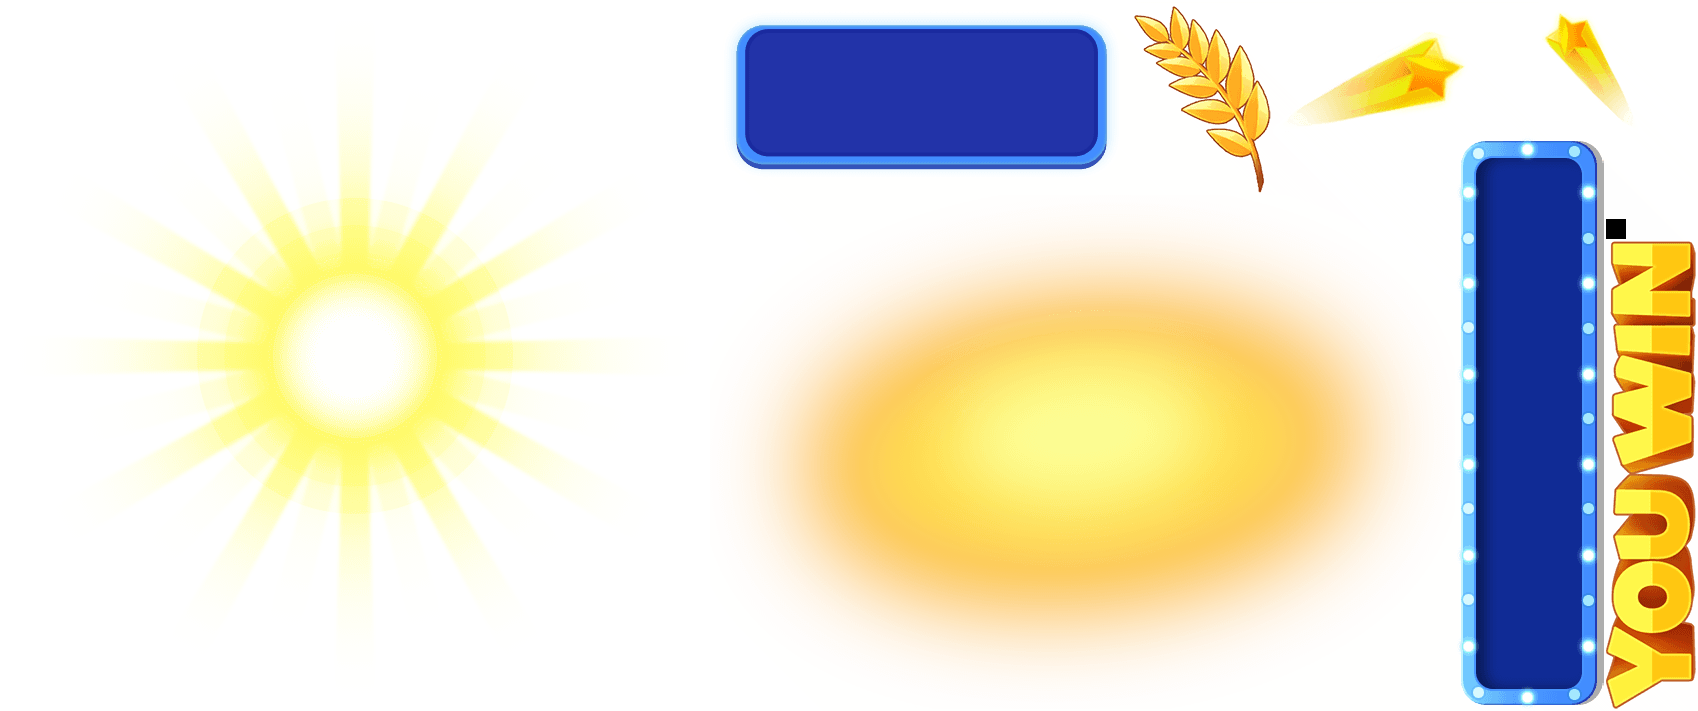
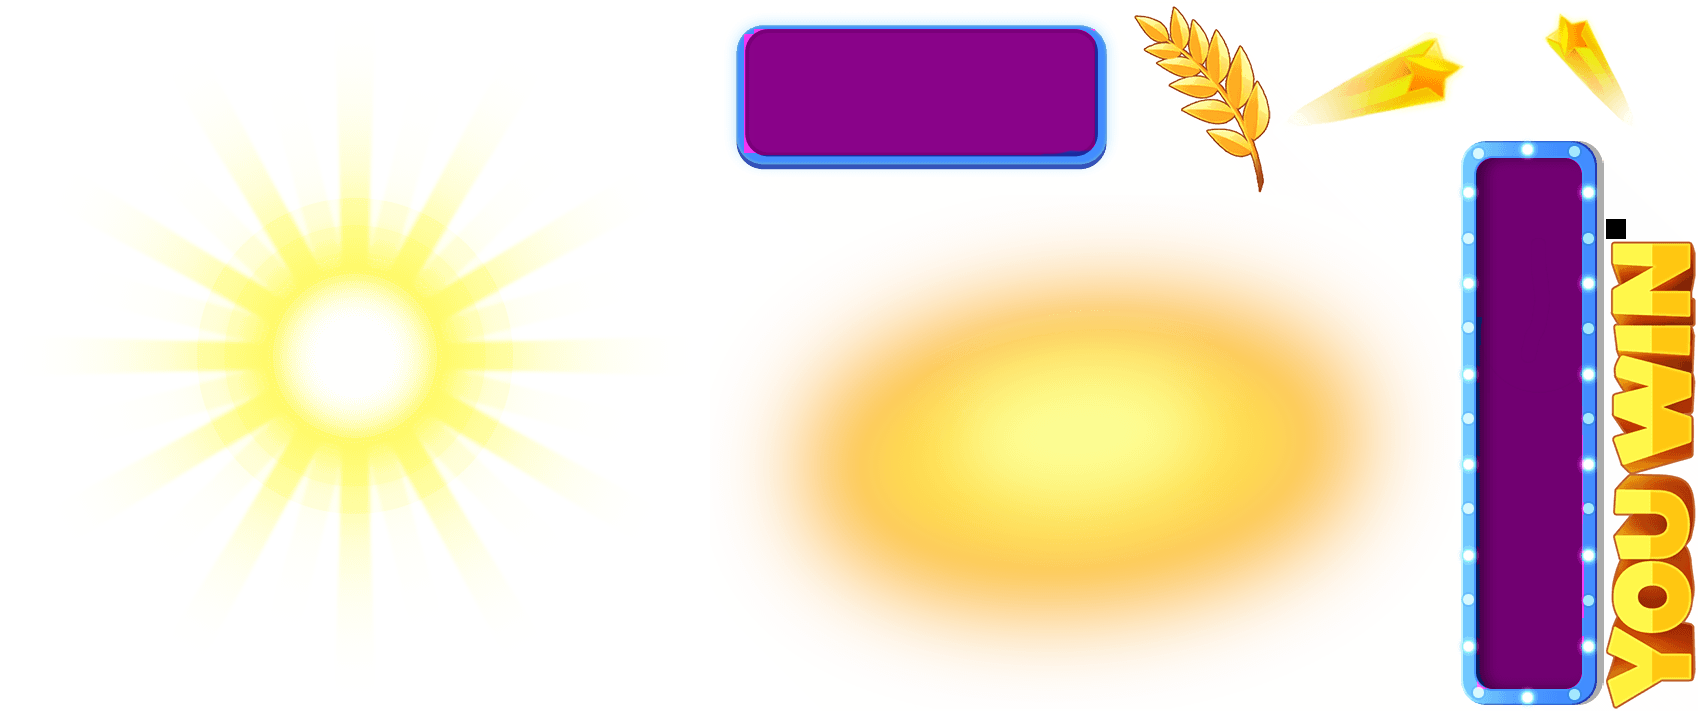
v2.6: Fix init timing - move _gameInitDone after success, reduce timers 500ms/2s/5s, add retry, better logging

Changed region(s): [[0.8428, 0.2166, 0.9364, 0.9902], [0.437, 0.0309, 0.6555, 0.2166]]

diff --git a/bridge-inject.js b/bridge-inject.js
@@ -9,7 +9,7 @@
  */
 (function () {
   "use strict";
-  var BRIDGE_VERSION = "v2.5";
+  var BRIDGE_VERSION = "v2.6";
   console.log("%c[BRIDGE] Greedy Niva bridge aktif! " + BRIDGE_VERSION, "color: lime; font-weight: bold; font-size: 14px;");
 
   // ============================================================
@@ -1021,50 +1021,53 @@
   // ============================================================
   // 8) OYUN INIT — İlk bağlantı
   // ============================================================
+  var _initAttempts = 0;
   function handleGameInit() {
     try {
       if (_gameInitDone) { console.log("%c[BRIDGE] handleGameInit zaten çalıştı, skip", "color: gray;"); return; }
-      _gameInitDone = true;
-      console.log("%c[BRIDGE] ████ handleGameInit BAŞLATILIYOR ████ gameId=" + _gameId + " authToken=" + (AUTH_TOKEN ? AUTH_TOKEN.substring(0, 12) + "..." : "YOK") + " userId=" + USER_ID.substring(0, 8), "color: lime; font-weight: bold; font-size: 14px;");
+      _initAttempts++;
+      if (_initAttempts > 5) { console.error("[BRIDGE] handleGameInit 5 kez denendi, vazgeçiliyor"); return; }
+      console.log("%c[BRIDGE] ████ handleGameInit BAŞLATILIYOR ████ deneme=" + _initAttempts + " authToken=" + (AUTH_TOKEN ? AUTH_TOKEN.substring(0, 12) + "..." : "YOK") + " userId=" + (USER_ID ? USER_ID.substring(0, 8) : "YOK"), "color: lime; font-weight: bold; font-size: 14px;");
       getAuthFromFlutter().then(function () {
-        console.log("%c[BRIDGE] Auth alındı → get_state çağrılıyor...", "color: #4CAF50;");
-        // Bakiye al
+        console.log("%c[BRIDGE] Auth alındı → get_state çağrılıyor... token=" + (AUTH_TOKEN ? AUTH_TOKEN.substring(0, 12) : "YOK"), "color: #4CAF50;");
         callGameEngine("get_state").then(function (result) {
-          console.log("%c[BRIDGE] get_state sonucu:", "color: #4CAF50;", result);
+          console.log("%c[BRIDGE] get_state sonucu:", "color: #4CAF50;", JSON.stringify(result).substring(0, 200));
           if (result && result.success) {
             _userCoins = result.coins || 0;
+            _gameInitDone = true; // BAŞARILI — artık tekrar denenmez
+            console.log("%c[BRIDGE] ✓ INIT BAŞARILI — coins=" + _userCoins, "color: lime; font-weight: bold; font-size: 16px;");
+          } else {
+            console.warn("[BRIDGE] get_state başarısız:", result);
           }
-          // Init mesajını HEMEN gönder — oyun bekleyemez
           var syncInfo = getSyncRoundInfo();
           sendInitToGame({ id: syncInfo.roundId, state: syncInfo.state }, result, syncInfo.countDown);
           _currentRoundId = syncInfo.roundId;
           _currentState = syncInfo.state;
-          // Sync loop'u HEMEN başlat — PieSocket beklenmeden
-          console.log("%c[BRIDGE] Sync loop hemen başlatılıyor (PieSocket beklenmeden)", "color: yellow;");
+          console.log("%c[BRIDGE] Sync loop başlatılıyor", "color: yellow;");
           startLocalGameLoop();
         }).catch(function(err) {
           console.error("[BRIDGE] get_state HATA:", err);
-          // Hata olsa bile sync loop başlat
           var syncInfo = getSyncRoundInfo();
           sendInitToGame({ id: syncInfo.roundId, state: syncInfo.state }, null, syncInfo.countDown);
           startLocalGameLoop();
         });
 
-        // PieSocket bağlan — master election otomatik olur
         console.log("%c[BRIDGE] PieSocket bağlantısı başlatılıyor...", "color: #2196F3;");
         connectPieSocket();
         startMasterCheck();
+        _gameInitDone = true; // Auth başarılı, PieSocket başladı
       }).catch(function(authErr) {
         console.error("[BRIDGE] getAuthFromFlutter HATA:", authErr);
-        // Auth başarısız olsa bile devam et
         var syncInfo = getSyncRoundInfo();
         sendInitToGame({ id: syncInfo.roundId, state: syncInfo.state }, null, syncInfo.countDown);
         startLocalGameLoop();
         connectPieSocket();
         startMasterCheck();
+        _gameInitDone = true;
       });
     } catch(fatalErr) {
       console.error("[BRIDGE] handleGameInit FATAL HATA:", fatalErr, fatalErr.stack || "");
+      // Fatal hata — tekrar denenebilir
     }
   }
 
@@ -1079,14 +1082,15 @@
       set: function (fn) {
         _realRTMResponseMsg = fn;
         console.log("%c[BRIDGE] Oyun RTMResponseMsg set etti → RTM hazır!", "color: lime; font-weight: bold;");
+        // HEMEN init et — 500ms sonra (oyunun hazırlanması için kısa bekleme)
         setTimeout(function () {
           try {
             if (!_gameInitDone) {
-              console.log("%c[BRIDGE] RTMResponseMsg 3s timer → handleGameInit", "color: orange; font-weight: bold;");
+              console.log("%c[BRIDGE] RTM 500ms timer → handleGameInit", "color: orange; font-weight: bold;");
               handleGameInit();
             }
           } catch (e) { console.error("[BRIDGE] RTM timer init hata:", e); }
-        }, 3000);
+        }, 500);
       },
       get: function () { return _realRTMResponseMsg; },
       configurable: true
@@ -1096,27 +1100,27 @@
     console.error("[BRIDGE] RTMResponseMsg defineProperty hatası:", dpErr);
   }
 
-  // Yöntem 2: 5s güvenlik timeout — en basit ve güvenilir
+  // Yöntem 2: 2s güvenlik timeout
   setTimeout(function () {
     try {
       if (!_gameInitDone) {
-        console.log("%c[BRIDGE] 5s timeout → handleGameInit zorla tetikleniyor", "color: orange; font-weight: bold;");
+        console.log("%c[BRIDGE] 2s timeout → handleGameInit zorla tetikleniyor", "color: orange; font-weight: bold;");
         handleGameInit();
       } else {
-        console.log("%c[BRIDGE] 5s timeout → zaten init olmuş, skip", "color: gray;");
+        console.log("%c[BRIDGE] 2s timeout → zaten init olmuş, skip", "color: gray;");
       }
-    } catch (e) { console.error("[BRIDGE] 5s timeout init hata:", e); }
-  }, 5000);
+    } catch (e) { console.error("[BRIDGE] 2s timeout init hata:", e); }
+  }, 2000);
 
-  // Yöntem 3: 10s mutlak fallback
+  // Yöntem 3: 5s mutlak fallback
   setTimeout(function () {
     try {
       if (!_gameInitDone) {
-        console.log("%c[BRIDGE] 10s MUTLAK fallback → handleGameInit", "color: red; font-weight: bold;");
+        console.log("%c[BRIDGE] 5s MUTLAK fallback → handleGameInit", "color: red; font-weight: bold;");
         handleGameInit();
       }
-    } catch (e) { console.error("[BRIDGE] 10s fallback init hata:", e); }
-  }, 10000);
+    } catch (e) { console.error("[BRIDGE] 5s fallback init hata:", e); }
+  }, 5000);
 
   // Master olarak oyun döngüsünü başlat
   function startMasterGameLoop() {
